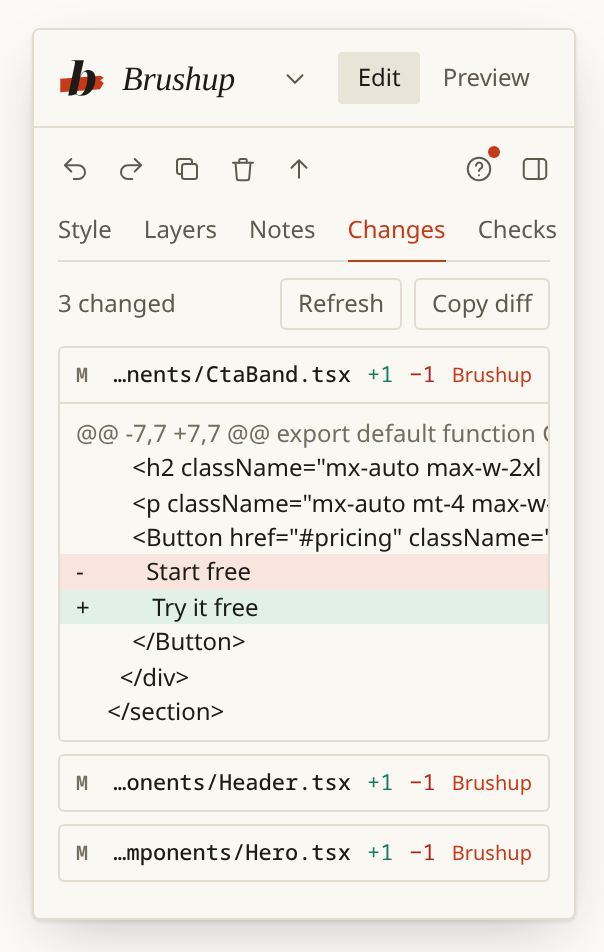
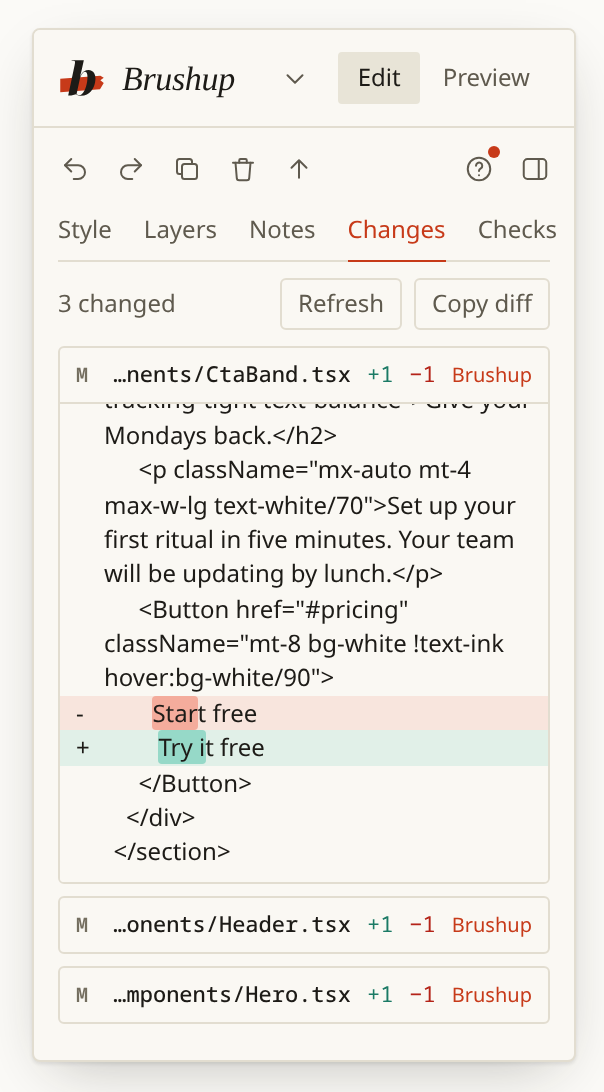
Changes tab wraps long lines and marks what changed; Layers names components at their file boundary

diff --git a/src/overlay/panel.ts b/src/overlay/panel.ts
@@ -1,5 +1,6 @@
 import { RULES } from './a11y';
 import { DESIGN_RULES } from './design';
+import { markDiff } from './diff-marks';
 import { HANDLE_KINDS, SIDES, type HandleKind, type Sides } from './handles-math';
 
 export type Mode = 'edit' | 'preview';
@@ -50,6 +51,8 @@ export interface LayerView {
   /** The tag, or the component's name when this is a component usage. */
   name: string;
   component: boolean;
+  /** The component this element's markup is written in (named after its file), when it is not the same as its parent's. */
+  from?: string;
   /** An id, a class or a piece of its text, to tell siblings apart. */
   hint: string;
   /** Lower-case text the filter box searches: name, id, classes and the start of its text. */
@@ -245,8 +248,8 @@ input:focus, select:focus, textarea:focus { outline: none; border-color: var(--a
 .chlist { min-width: 0; } .chfile { border: 1px solid var(--line); border-radius: 3px; margin-bottom: 6px; overflow: hidden; background: var(--bg); } .chfile summary { display: flex; gap: 8px; align-items: baseline; padding: 6px 8px; cursor: pointer; list-style: none; } .chfile summary::-webkit-details-marker { display: none; }
 .chfile .chnm { flex: 1; min-width: 0; overflow: hidden; text-overflow: ellipsis; white-space: nowrap; font: 500 11px var(--mono); color: var(--text); direction: rtl; text-align: left; } .chfile .chst { font: 600 10px var(--mono); color: var(--faint); }
 .chfile .chby { font-size: 10px; color: var(--accent); } .chfile .chadd { color: var(--ok); font: 11px var(--mono); } .chfile .chdel { color: var(--err); font: 11px var(--mono); }
-.chfile pre { margin: 0; padding: 6px 0; background: var(--bg); max-width: 100%; max-height: 240px; overflow: auto; border-top: 1px solid var(--line); font: 10.5px/1.5 var(--mono); } .chfile pre span { display: block; padding: 0 8px; white-space: pre; }
-.chfile pre .cha { background: rgba(76, 194, 168, .14); } .chfile pre .chd { background: rgba(240, 115, 92, .14); } .chfile pre .chh { color: var(--faint); }
+.chfile pre { margin: 0; padding: 6px 0; background: var(--bg); max-width: 100%; max-height: 240px; overflow: auto; border-top: 1px solid var(--line); font: 10.5px/1.5 var(--mono); } .chfile pre span { display: block; padding: 0 8px 0 22px; text-indent: -14px; white-space: pre-wrap; overflow-wrap: anywhere; }
+.chfile pre .cha { background: rgba(76, 194, 168, .14); } .chfile pre .chd { background: rgba(240, 115, 92, .14); } .chfile pre mark { color: inherit; border-radius: 2px; } .chfile pre .cha mark { background: rgba(76, 194, 168, .5); } .chfile pre .chd mark { background: rgba(240, 115, 92, .5); } .chfile pre .chh { color: var(--faint); }
 .chnote { margin: 8px 0; padding: 7px 9px; border-left: 2px solid var(--warn); background: var(--raise); color: var(--muted); font-size: 11px; line-height: 1.5; }
 .note .reply { margin: 6px 0 0; padding: 5px 8px; border-left: 2px solid var(--ok); background: var(--raise); color: var(--muted); font-size: 11px; line-height: 1.5; }
 .a11yitem { border: 1px solid var(--line); border-radius: 3px; padding: 8px 9px; margin-bottom: 6px; background: var(--bg); }
@@ -270,7 +273,7 @@ input:focus, select:focus, textarea:focus { outline: none; border-color: var(--a
 .layers li { display: block; } .layers button.row { display: flex; align-items: center; gap: 4px; width: 100%; padding: 3px 6px; border-radius: 0; text-align: left; color: var(--muted); font: 11.5px/1.4 var(--mono); background: none; white-space: nowrap; overflow: hidden; }
 .layers button.row:hover { background: var(--raise); color: var(--text); } .layers button.row[aria-selected=true] { background: rgba(var(--accent-rgb), .14); color: var(--text); box-shadow: inset 2px 0 var(--accent); }
 .layers .lcaret { width: 14px; flex: none; text-align: center; color: var(--faint); font-size: 9px; cursor: pointer; } .layers .lcaret:hover { color: var(--text); }
-.layers .lnm { color: var(--text); } .layers .lnm.comp { color: var(--accent); } .layers .lhint { color: var(--faint); overflow: hidden; text-overflow: ellipsis; }
+.layers .lnm { color: var(--text); } .layers .lnm.comp { color: var(--accent); } .layers .lfrom { color: var(--accent); opacity: .75; font-size: 10px; white-space: nowrap; } .layers .lhint { color: var(--faint); overflow: hidden; text-overflow: ellipsis; }
 .a11yfilter { display: flex; gap: 4px; margin: 0 0 8px; } .a11yfilter button { padding: 3px 9px; border: 1px solid var(--line); border-radius: 3px; color: var(--muted); font-size: 11px; } .a11yfilter button[aria-pressed=true] { background: var(--raise-2); color: var(--text); border-color: var(--fieldline); }
 .a11yitem .rule.design { color: var(--pad); }
 .a11yitem .basis { margin: 5px 0 0; padding-left: 7px; border-left: 2px solid var(--line); color: var(--faint); font-size: 10.5px; line-height: 1.5; }
@@ -1051,7 +1054,15 @@ export function createPanel(hooks: PanelHooks) {
       const hint = document.createElement('span');
       hint.className = 'lhint';
       hint.textContent = row.hint;
-      b.append(caret, name, hint);
+      b.append(caret, name);
+      if (row.from) {
+        const from = document.createElement('span');
+        from.className = 'lfrom';
+        from.textContent = `‹${row.from}›`;
+        from.title = `Written in ${row.from}`;
+        b.append(from);
+      }
+      b.append(hint);
       b.addEventListener('click', (e) => hooks.onLayerSelect(row.key, e.shiftKey));
       b.addEventListener('pointerenter', () => hooks.onLayerHover(row.key));
       b.addEventListener('pointerleave', () => hooks.onLayerHover(null));
@@ -1372,15 +1383,28 @@ export function createPanel(hooks: PanelHooks) {
         line.textContent = f.status === '?' ? 'New file, not tracked by git yet.' : 'No diff shown (binary, or too large).';
         pre.append(line);
       }
-      for (const raw of f.diff.split('\n')) {
-        if (!raw || /^(diff --git|index |--- |\+\+\+ |new file|deleted file|similarity|rename )/.test(raw)) continue;
+      const rawLines = f.diff.split('\n').filter((raw) => raw && !/^(diff --git|index |--- |\+\+\+ |new file|deleted file|similarity|rename )/.test(raw));
+      for (const l of markDiff(rawLines)) {
         const line = document.createElement('span');
-        line.className = raw.startsWith('@@') ? 'chh' : raw[0] === '+' ? 'cha' : raw[0] === '-' ? 'chd' : '';
-        line.textContent = raw;
+        line.className = l.kind === 'hunk' ? 'chh' : l.kind === 'add' ? 'cha' : l.kind === 'del' ? 'chd' : '';
+        const sign = l.kind === 'add' ? '+ ' : l.kind === 'del' ? '- ' : l.kind === 'ctx' ? '  ' : '';
+        if (l.mark) {
+          // text only: this is the project's source. The part that changed is marked so it can be found in a long line.
+          const mark = document.createElement('mark');
+          mark.textContent = l.text.slice(l.mark.start, l.mark.end);
+          line.append(sign + l.text.slice(0, l.mark.start), mark, l.text.slice(l.mark.end));
+        } else line.textContent = sign + l.text;
         pre.append(line);
       }
       d.append(pre);
+      // Open on the change itself: a few lines of context can wrap to fill the box and push it out of sight.
+      const toChange = () => {
+        const first = pre.querySelector<HTMLElement>('.cha, .chd');
+        if (first) pre.scrollTop = Math.max(0, first.offsetTop - 28);
+      };
+      d.addEventListener('toggle', () => d.open && toChange());
       chList.append(d);
+      if (d.open) toChange();
     }
     if (view.truncated) note('Some diffs were too large to show.');
     if (mine.length && other) note(`${other} other file${other === 1 ? '' : 's'} changed outside Brushup. They're listed here too, so a commit of everything would include them.`);

diff --git a/src/overlay/diff-marks.ts b/src/overlay/diff-marks.ts
@@ -1,0 +1,61 @@
+/**
+ * Inside one changed line, which part is the change? Lines of JSX are long and the edit is often a few characters
+ * (`ml-2.5` added to a class list, one word of text), so the part that differs is marked rather than leaving the eye to find it.
+ */
+export interface Change {
+  /** Characters at the start that both versions share. */
+  prefix: number;
+  /** The end of the differing part in the old and in the new line. */
+  oldEnd: number;
+  newEnd: number;
+}
+
+/** The differing middle of two versions of a line, or null when they have too little in common for marking to help. */
+export function changedPart(oldLine: string, newLine: string): Change | null {
+  let prefix = 0;
+  while (prefix < oldLine.length && prefix < newLine.length && oldLine[prefix] === newLine[prefix]) prefix++;
+  let oldEnd = oldLine.length;
+  let newEnd = newLine.length;
+  while (oldEnd > prefix && newEnd > prefix && oldLine[oldEnd - 1] === newLine[newEnd - 1]) (oldEnd--, newEnd--);
+  const shared = prefix + (oldLine.length - oldEnd);
+  const shortest = Math.min(oldLine.length, newLine.length);
+  // A line that is mostly different is simply a different line: marking all of it says nothing.
+  if (shortest === 0 || shared < shortest * 0.3) return null;
+  if (oldEnd === prefix && newEnd === prefix) return null; // identical
+  return { prefix, oldEnd, newEnd };
+}
+
+export interface DiffLine {
+  kind: 'add' | 'del' | 'ctx' | 'hunk';
+  /** The line without its leading + / - / space. */
+  text: string;
+  /** The part to mark, for a removed or added line that has a partner. */
+  mark?: { start: number; end: number };
+}
+
+/** Turn a file's diff lines (as git prints them, header lines already removed) into lines with their changed parts marked. */
+export function markDiff(raw: string[]): DiffLine[] {
+  const lines: DiffLine[] = raw.map((r) => ({ kind: r.startsWith('@@') ? 'hunk' : r[0] === '+' ? 'add' : r[0] === '-' ? 'del' : 'ctx', text: r.startsWith('@@') ? r : r.slice(1) }));
+  let i = 0;
+  while (i < lines.length) {
+    if (lines[i].kind !== 'del') {
+      i++;
+      continue;
+    }
+    // A run of removed lines followed straight away by a run of added ones: pair them off, one to one, when the runs match.
+    let d = i;
+    while (d < lines.length && lines[d].kind === 'del') d++;
+    let a = d;
+    while (a < lines.length && lines[a].kind === 'add') a++;
+    if (d - i === a - d) {
+      for (let k = 0; k < d - i; k++) {
+        const change = changedPart(lines[i + k].text, lines[d + k].text);
+        if (!change) continue;
+        lines[i + k].mark = { start: change.prefix, end: change.oldEnd };
+        lines[d + k].mark = { start: change.prefix, end: change.newEnd };
+      }
+    }
+    i = Math.max(a, i + 1);
+  }
+  return lines;
+}

diff --git a/src/overlay/index.ts b/src/overlay/index.ts
@@ -700,6 +700,22 @@ const layerKey = (el: HTMLElement) => `${refOf(el)}#${Math.max(0, instances(refO
 /** The page's tagged elements as a tree, in document order. Capped, so a huge page can't stall the panel. */
 const LAYER_CAP = 2000;
 let layerTotal = 0;
+/** The file an element's markup was written in, from its source reference (`file:line:col`). */
+const fileOf = (el: HTMLElement) => el.getAttribute(SRC)?.replace(/:\d+:\d+$/, '') ?? null;
+
+/**
+ * The component an element's markup lives in, named after its file, when that differs from its parent's. A component does not
+ * have to forward props for this to show: its root element is written in `FeatureCard.tsx`, its parent in `Features.tsx`.
+ * Files named in lower case (`page.tsx`, `index.tsx`, `route.tsx`) say nothing about the component, so they are left out.
+ */
+function componentFrom(el: HTMLElement, parent: HTMLElement | null): string | undefined {
+  if (!DEV) return undefined;
+  const file = fileOf(el);
+  if (!file || (parent && fileOf(parent) === file)) return undefined;
+  const base = file.split('/').pop()!.replace(/\.[^.]+$/, '');
+  return /^[A-Z]/.test(base) ? base : undefined;
+}
+
 function layerRows(): LayerView[] {
   const rows: LayerView[] = [];
   const depth = new Map<HTMLElement, number>();
@@ -724,13 +740,15 @@ function layerRows(): LayerView[] {
     const key = `${ref}#${n}`;
     layerEls.set(key, el);
     const name = use ? (use.split('#')[1] ?? tagOf(el)) : tagOf(el);
+    const from = use ? undefined : componentFrom(el, parent);
     const row: LayerView = {
       key,
       depth: d,
       name,
       component: !!use,
+      from,
       hint: el.id ? `#${el.id}` : text ? `“${text.slice(0, 28)}”` : classes[0] ? `.${classes[0]}` : '',
-      search: `${name} ${el.id} ${classes.slice(0, 8).join(' ')} ${text.slice(0, 60)}`.toLowerCase(),
+      search: `${name} ${from ?? ''} ${el.id} ${classes.slice(0, 8).join(' ')} ${text.slice(0, 60)}`.toLowerCase(),
       hasChildren: false,
     };
     rows.push(row);

diff --git a/test/overlay.test.ts b/test/overlay.test.ts
@@ -846,6 +846,32 @@ describe('the Changes tab', () => {
   });
 });
 
+describe('the Layers tab in dev mode: which component each element is written in', () => {
+  const q = (sel: string) => o.root.querySelector(sel) as HTMLElement;
+  const rows = () => [...o.root.querySelectorAll('.layers button.row')] as HTMLButtonElement[];
+  const from = (r: HTMLElement) => r.querySelector('.lfrom')?.textContent ?? null;
+
+  it('names the component at its boundary even when it passes no props through, and skips lower-case file names', () => {
+    o.destroy();
+    document.body.innerHTML = `
+      <main data-brushup-src="src/app/page.tsx:3:4">
+        <section data-brushup-src="src/components/Features.tsx:8:4">
+          <article data-brushup-src="src/components/FeatureCard.tsx:5:4"><h3 data-brushup-src="src/components/FeatureCard.tsx:6:6">Fast</h3></article>
+        </section>
+      </main>`;
+    return loadOverlay({ mode: 'dev' }).then(async (ov) => {
+      o = ov;
+      q('[data-tab=layers]').click();
+      (q('[data-act=layers-expand]') as HTMLButtonElement).click();
+      expect(rows().map((r) => from(r))).toEqual([null, '‹Features›', '‹FeatureCard›', null]); // page.tsx is a route file, h3 shares its parent's file
+      const filter = q('.layfilter') as HTMLInputElement;
+      filter.value = 'featurecard';
+      filter.dispatchEvent(new Event('input', { bubbles: true }));
+      expect(rows().map((r) => r.querySelector('.lnm')!.textContent)).toContain('article');
+    });
+  });
+});
+
 describe('the Layers tab', () => {
   const q = (sel: string) => o.root.querySelector(sel) as HTMLElement;
   const rows = () => [...o.root.querySelectorAll('.layers button.row')] as HTMLButtonElement[];

diff --git a/test/diff-marks.test.ts b/test/diff-marks.test.ts
@@ -1,0 +1,30 @@
+import { describe, expect, it } from 'vitest';
+import { changedPart, markDiff } from '../src/overlay/diff-marks';
+
+describe('changedPart', () => {
+  it('finds the few characters that differ in a long line', () => {
+    const a = '<a className="px-4 py-2 text-sm font-medium">Sign in</a>';
+    const b = '<a className="px-4 py-2 text-sm font-medium">Log in</a>';
+    const c = changedPart(a, b)!;
+    expect(a.slice(c.prefix, c.oldEnd)).toBe('Sign');
+    expect(b.slice(c.prefix, c.newEnd)).toBe('Log');
+  });
+  it('returns null when the lines have little in common', () => {
+    expect(changedPart('abcdefghij', 'zzzzzzzzzz')).toBeNull();
+    expect(changedPart('same', 'same')).toBeNull();
+  });
+});
+
+describe('markDiff', () => {
+  it('marks paired -/+ lines and leaves context and unpaired lines alone', () => {
+    const out = markDiff(['@@ -1,3 +1,3 @@', ' keep', '-<p class="mt-2 text-lg">Hi</p>', '+<p class="mt-4 text-lg">Hi</p>', ' tail']);
+    expect(out.map((l) => l.kind)).toEqual(['hunk', 'ctx', 'del', 'add', 'ctx']);
+    expect(out[2].text.slice(out[2].mark!.start, out[2].mark!.end)).toBe('2');
+    expect(out[3].text.slice(out[3].mark!.start, out[3].mark!.end)).toBe('4');
+    expect(out[1].mark).toBeUndefined();
+  });
+  it('does not pair runs of different length', () => {
+    const out = markDiff(['-a line one', '-a line two', '+a line one!']);
+    expect(out.every((l) => !l.mark)).toBe(true);
+  });
+});

diff --git a/CHANGELOG.md b/CHANGELOG.md
@@ -1,5 +1,10 @@
 # Changelog
 
+## Unreleased
+
+- **Changes tab: long lines wrap, and the part that changed is marked.** A line of JSX with a long Tailwind class list used to run off the edge of the panel, so the edit itself was often out of sight. Lines now wrap with a hanging indent, a removed line and the added line that replaced it have the differing characters highlighted, and a file's diff opens scrolled to the first change instead of the top of its context.
+- **Layers: components are named at their boundary, whether or not they forward props.** Before, `<FeatureCard>` only appeared when the component passed extra props through to its root element. Now an element written in a different file from its parent shows the component it belongs to, taken from the file name (`‹FeatureCard›`, `‹Hero›`), and the filter box finds it by that name. Lower-case files such as `page.tsx` or `index.tsx` are left unnamed, since they say nothing about the component.
+
 ## 0.1.7
 
 - **Two new MCP tools, and a richer `brushup_inspect`: Claude can see the page without a screenshot.** `brushup_check` returns the Checks tab's findings as data: each problem, the element and where it is written, the standard or guideline behind it, and the style edit that fixes it. `brushup_console` returns the errors, warnings, uncaught exceptions and unhandled rejections the page has logged since the canvas loaded. `brushup_inspect` now also reports a stable handle (a short selector, and whether the element is mapped to source), its accessible name and role, its text contrast against the real background, what is on top of it at its centre, and which other elements overlap it. Seven tools in all. Checked end to end with a real MCP client against a running React Router app.
